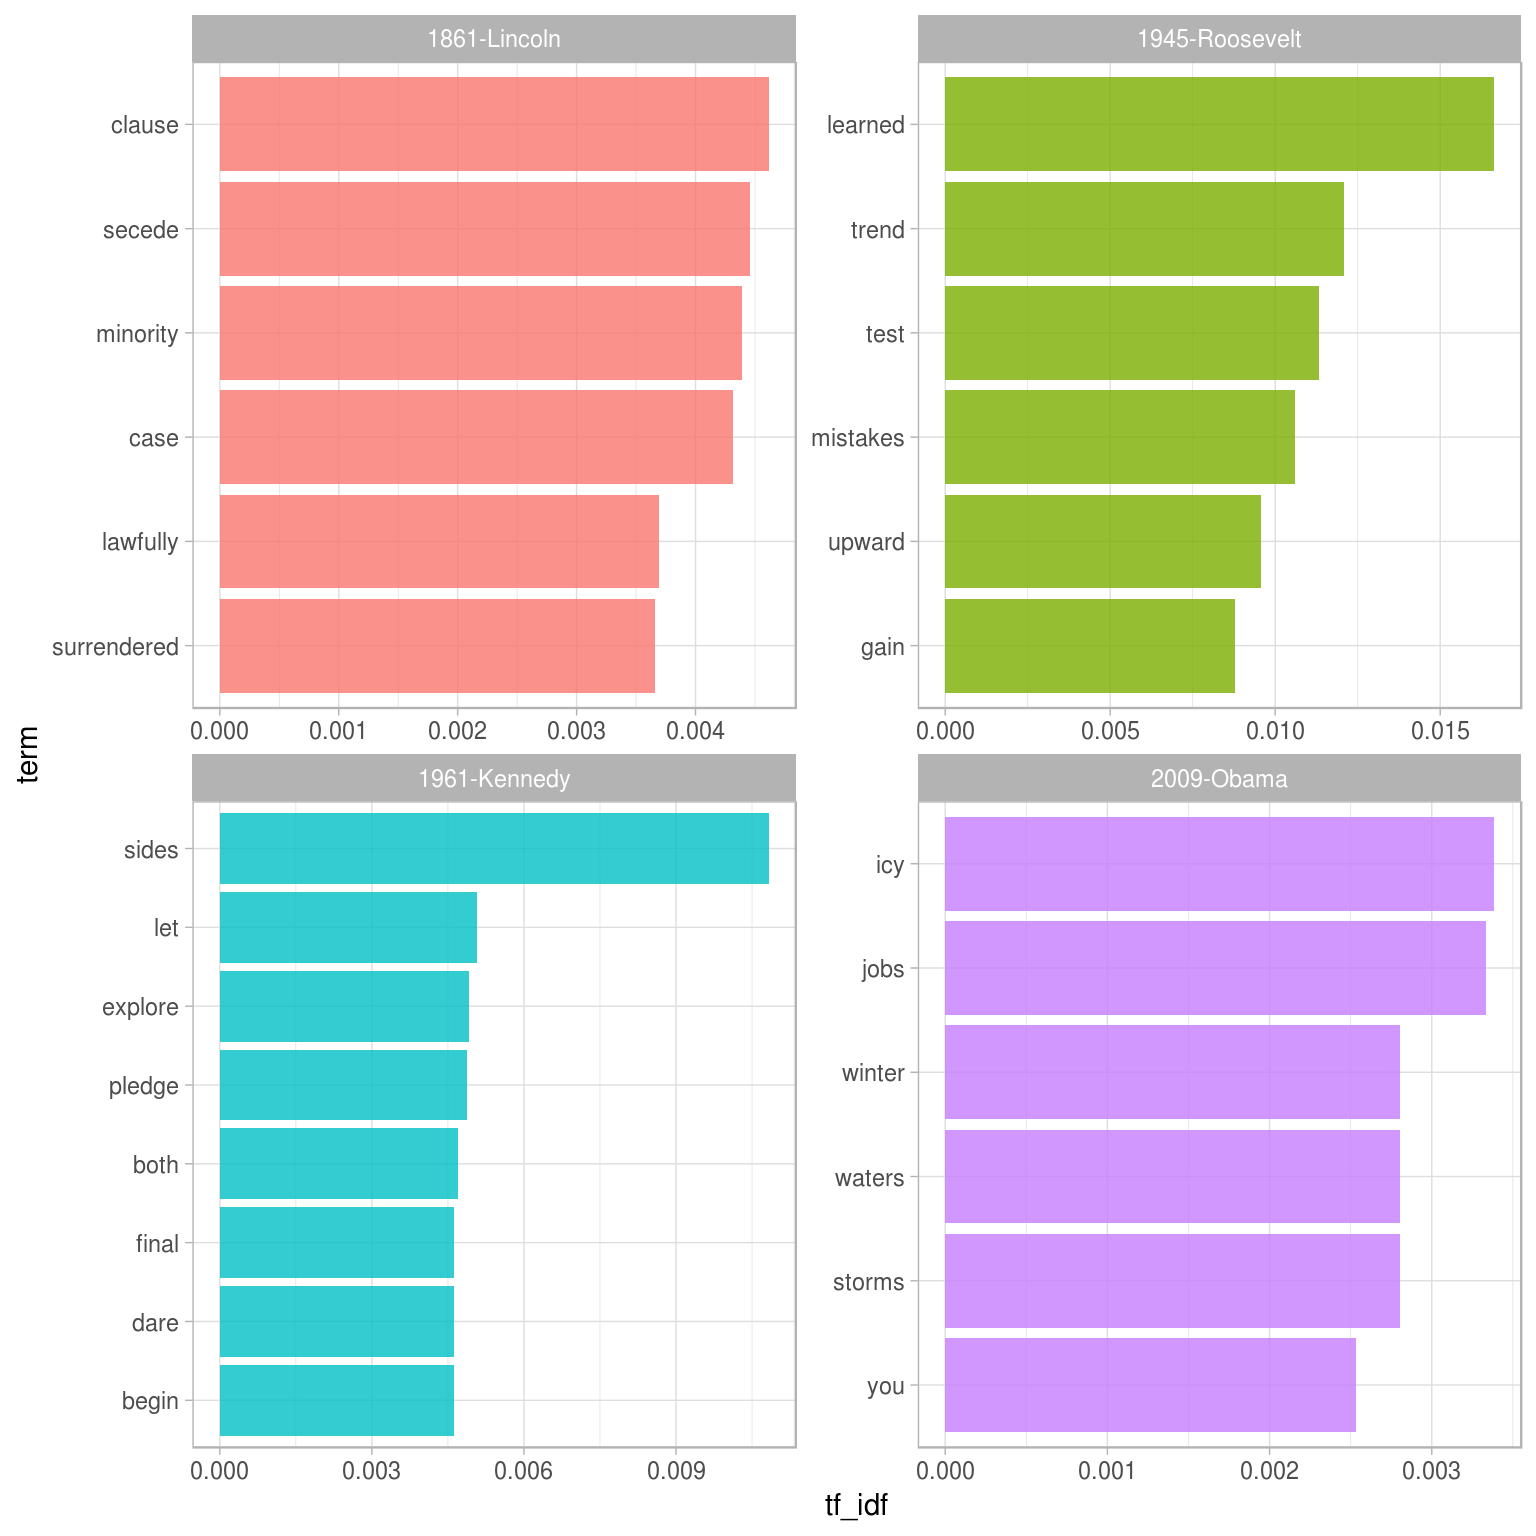
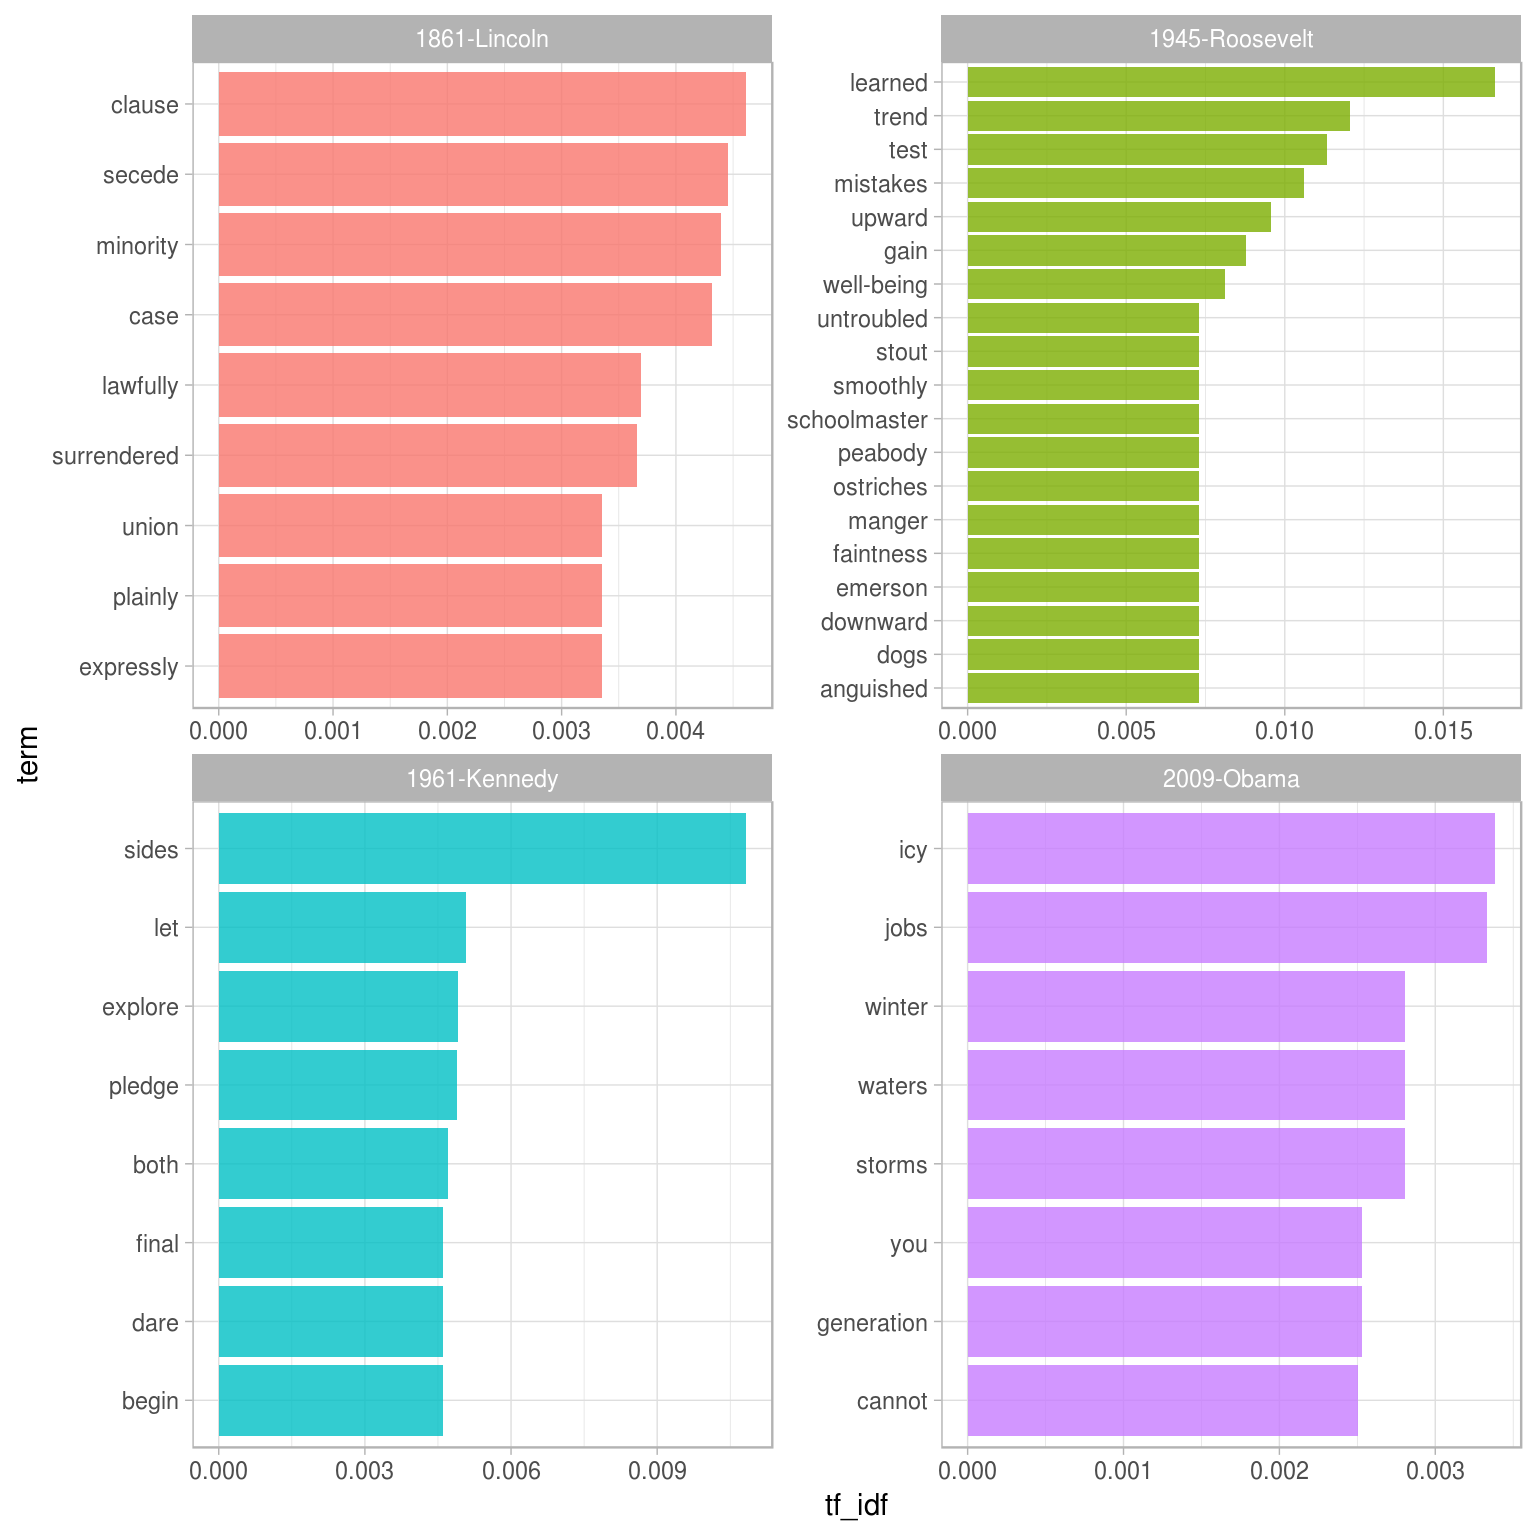
Updating book (105)

diff --git a/dtm.html b/dtm.html
@@ -204,22 +204,22 @@ code > span.in { color: #60a0b0; font-weight: bold; font-style: italic; } /* Inf
 <div id="dtm" class="section level1">
 <h1><span class="header-section-number">6</span> Tidying and casting document-term matrices</h1>
 <p>So far, we’ve been analyzing data in a tidy text structure: a data frame with one-token-per-document-per-row. This lets us use the popular suite of tidy tools such as dplyr, tidyr, and ggplot2. We’ve demonstrated that many text analyses can be performed using these principles.</p>
-<p>But many of the existing tools for natural language processing don’t work with this kind of structure. The <a href="https://cran.r-project.org/web/views/NaturalLanguageProcessing.html">CRAN Task View for Natural Language Processing</a> lists a large selection of packages that take other inputs. One of the most common is the <a href="https://en.wikipedia.org/wiki/Document-term_matrix">document-term matrix</a>, a sparse matrix of counts with one row for each document and one column for each term. MORE HERE</p>
+<p>But many of the existing tools for natural language processing don’t work with this kind of structure. The <a href="https://cran.r-project.org/web/views/NaturalLanguageProcessing.html">CRAN Task View for Natural Language Processing</a> lists a large selection of packages that take other inputs. One of the most common is the <a href="https://en.wikipedia.org/wiki/Document-term_matrix">document-term matrix</a>, a sparse matrix with one row for each document in a collection and one column for each term or word. The value that goes into the matrix is usually a word count or sometimes tf-idf. These matrices are sparse (they consist mostly of zeroes), so special algorithms and data structures can be used to deal with them that are efficient and fast.</p>
 <p>The tidytext package can integrate these packages into an analysis while still relying on our tidy tools. The two key verbs are:</p>
 <ul>
-<li><code>tidy()</code>:</li>
-<li><code>cast_</code>: Turn a tidy one-term-per-row data frame into a document-term matrix. This includes <code>cast_sparse()</code> (sparse Matrix), <code>cast_dtm()</code> (<code>DocumentTermMatrix</code> objects from tm), and <code>cast_dfm()</code> (<code>dfm</code> objects from quanteda).</li>
+<li><code>tidy()</code>: Constructs a data frame that summarizes a model’s statistical findings.</li>
+<li><code>cast_</code>: Turns a tidy one-term-per-row data frame into a document-term matrix. This includes <code>cast_sparse()</code> (sparse Matrix), <code>cast_dtm()</code> (<code>DocumentTermMatrix</code> objects from tm), and <code>cast_dfm()</code> (<code>dfm</code> objects from quanteda).</li>
 </ul>
 <div id="tidying-a-document-term-matrix" class="section level2">
 <h2><span class="header-section-number">6.1</span> Tidying a document-term matrix</h2>
-<p>Many existing text mining datasets expect and provide a <strong>document-term matrix</strong>, or DTM. A DTM is a matrix where:</p>
+<p>As we have discussed, many existing text mining datasets expect and provide a <strong>document-term matrix</strong>, or DTM. A DTM is a matrix where</p>
 <ul>
-<li>Each row represents one document</li>
-<li>Each column represents one term</li>
-<li>Each value contains the number of appearances of that term in that document</li>
+<li>each row represents one document,</li>
+<li>each column represents one term, and</li>
+<li>each value typically contains the number of appearances of that term in that document.</li>
 </ul>
 <p>DTMs are usually implemented as sparse matrices, meaning the vast majority of values are 0. These objects can be interacted with as though they were matrices, but are stored in a more efficient format.</p>
-<p>One commonly used implementation of DTMs in R is the <code>DocumentTermMatrix</code> class in the tm package. For example, consider the corpus of 2246 Associated Press articles from the topicmodels package:</p>
+<p>One commonly used implementation of DTMs in R is the <code>DocumentTermMatrix</code> class in the tm package. For example, consider the corpus of 2246 Associated Press articles from the topicmodels package.</p>
 <div class="sourceCode"><pre class="sourceCode r"><code class="sourceCode r"><span class="kw">library</span>(tm)
 
 <span class="kw">data</span>(<span class="st">&quot;AssociatedPress&quot;</span>, <span class="dt">package =</span> <span class="st">&quot;topicmodels&quot;</span>)
@@ -231,7 +231,7 @@ code > span.in { color: #60a0b0; font-weight: bold; font-style: italic; } /* Inf
 ## Sparsity           : 99%
 ## Maximal term length: 18
 ## Weighting          : term frequency (tf)</code></pre>
-<p>We see that this dataset contains documents (each of them an AP article) and terms (words).</p>
+<p>We see that this dataset contains documents (each of them an AP article) and terms (words). Notice that this example DTM is 99% sparse.</p>
 <p>If we want to analyze this with tidy tools, we need to turn it into a one-token-per-document-per-row data frame first. The broom package <span class="citation">(Robinson et al. <a href="#ref-R-broom">2015</a>)</span> introduced the <code>tidy</code> verb, which takes a non-tidy object and turns it into a data frame. The tidytext package implements that method for <code>DocumentTermClass</code> objects:</p>
 <div class="sourceCode"><pre class="sourceCode r"><code class="sourceCode r"><span class="kw">library</span>(dplyr)
 <span class="kw">library</span>(tidytext)
@@ -286,7 +286,7 @@ ap_sentiments %&gt;%
 <span class="st">  </span><span class="kw">mutate</span>(<span class="dt">n =</span> <span class="kw">ifelse</span>(sentiment ==<span class="st"> &quot;negative&quot;</span>, -n, n)) %&gt;%
 <span class="st">  </span><span class="kw">mutate</span>(<span class="dt">term =</span> <span class="kw">reorder</span>(term, n)) %&gt;%
 <span class="st">  </span><span class="kw">ggplot</span>(<span class="kw">aes</span>(term, n, <span class="dt">fill =</span> sentiment)) +
-<span class="st">  </span><span class="kw">geom_bar</span>(<span class="dt">stat =</span> <span class="st">&quot;identity&quot;</span>) +
+<span class="st">  </span><span class="kw">geom_bar</span>(<span class="dt">alpha =</span> <span class="fl">0.8</span>, <span class="dt">stat =</span> <span class="st">&quot;identity&quot;</span>) +
 <span class="st">  </span><span class="kw">ylab</span>(<span class="st">&quot;Contribution to sentiment&quot;</span>) +
 <span class="st">  </span><span class="kw">coord_flip</span>()</code></pre></div>
 <p><img src="06-document-term-matrices_files/figure-html/unnamed-chunk-2-1.png" width="672" /></p>
@@ -339,7 +339,7 @@ inaug_tf_idf</code></pre></div>
 ## # ... with 2,680 more rows</code></pre>
 <div class="sourceCode"><pre class="sourceCode r"><code class="sourceCode r">inaug_tf_idf %&gt;%
 <span class="st">  </span><span class="kw">group_by</span>(document) %&gt;%
-<span class="st">  </span><span class="kw">top_n</span>(<span class="dv">6</span>, tf_idf) %&gt;%
+<span class="st">  </span><span class="kw">top_n</span>(<span class="dv">8</span>, tf_idf) %&gt;%
 <span class="st">  </span><span class="kw">ungroup</span>() %&gt;%
 <span class="st">  </span><span class="kw">mutate</span>(<span class="dt">term =</span> <span class="kw">reorder</span>(term, tf_idf)) %&gt;%
 <span class="st">  </span><span class="kw">ggplot</span>(<span class="kw">aes</span>(term, tf_idf, <span class="dt">fill =</span> document)) +

diff --git a/06-document-term-matrices.md b/06-document-term-matrices.md
@@ -4,24 +4,24 @@
 
 So far, we've been analyzing data in a tidy text structure: a data frame with one-token-per-document-per-row. This lets us use the popular suite of tidy tools such as dplyr, tidyr, and ggplot2. We've demonstrated that many text analyses can be performed using these principles.
 
-But many of the existing tools for natural language processing don't work with this kind of structure. The [CRAN Task View for Natural Language Processing](https://cran.r-project.org/web/views/NaturalLanguageProcessing.html) lists a large selection of packages that take other inputs. One of the most common is the [document-term matrix](https://en.wikipedia.org/wiki/Document-term_matrix), a sparse matrix of counts with one row for each document and one column for each term. MORE HERE
+But many of the existing tools for natural language processing don't work with this kind of structure. The [CRAN Task View for Natural Language Processing](https://cran.r-project.org/web/views/NaturalLanguageProcessing.html) lists a large selection of packages that take other inputs. One of the most common is the [document-term matrix](https://en.wikipedia.org/wiki/Document-term_matrix), a sparse matrix with one row for each document in a collection and one column for each term or word. The value that goes into the matrix is usually a word count or sometimes tf-idf. These matrices are sparse (they consist mostly of zeroes), so special algorithms and data structures can be used to deal with them that are efficient and fast.
 
 The tidytext package can integrate these packages into an analysis while still relying on our tidy tools. The two key verbs are:
 
-* `tidy()`: 
-* `cast_`: Turn a tidy one-term-per-row data frame into a document-term matrix. This includes `cast_sparse()` (sparse Matrix), `cast_dtm()` (`DocumentTermMatrix` objects from tm), and `cast_dfm()` (`dfm` objects from quanteda).
+* `tidy()`: Constructs a data frame that summarizes a model's statistical findings.
+* `cast_`: Turns a tidy one-term-per-row data frame into a document-term matrix. This includes `cast_sparse()` (sparse Matrix), `cast_dtm()` (`DocumentTermMatrix` objects from tm), and `cast_dfm()` (`dfm` objects from quanteda).
 
 ## Tidying a document-term matrix
 
-Many existing text mining datasets expect and provide a **document-term matrix**, or DTM. A DTM is a matrix where:
+As we have discussed, many existing text mining datasets expect and provide a **document-term matrix**, or DTM. A DTM is a matrix where
 
-* Each row represents one document
-* Each column represents one term
-* Each value contains the number of appearances of that term in that document
+* each row represents one document,
+* each column represents one term, and
+* each value typically contains the number of appearances of that term in that document.
 
 DTMs are usually implemented as sparse matrices, meaning the vast majority of values are 0. These objects can be interacted with as though they were matrices, but are stored in a more efficient format.
 
-One commonly used implementation of DTMs in R is the `DocumentTermMatrix` class in the tm package. For example, consider the corpus of 2246 Associated Press articles from the topicmodels package:
+One commonly used implementation of DTMs in R is the `DocumentTermMatrix` class in the tm package. For example, consider the corpus of 2246 Associated Press articles from the topicmodels package.
 
 
 ```r
@@ -47,7 +47,7 @@ AssociatedPress
 ## Weighting          : term frequency (tf)
 ```
 
-We see that this dataset contains  documents (each of them an AP article) and  terms (words).
+We see that this dataset contains  documents (each of them an AP article) and  terms (words). Notice that this example DTM is 99% sparse.
 
 If we want to analyze this with tidy tools, we need to turn it into a one-token-per-document-per-row data frame first. The broom package [@R-broom] introduced the `tidy` verb, which takes a non-tidy object and turns it into a data frame. The tidytext package implements that method for `DocumentTermClass` objects:
 
@@ -123,7 +123,7 @@ ap_sentiments %>%
   mutate(n = ifelse(sentiment == "negative", -n, n)) %>%
   mutate(term = reorder(term, n)) %>%
   ggplot(aes(term, n, fill = sentiment)) +
-  geom_bar(stat = "identity") +
+  geom_bar(alpha = 0.8, stat = "identity") +
   ylab("Contribution to sentiment") +
   coord_flip()
 ```
@@ -202,7 +202,7 @@ inaug_tf_idf
 ```r
 inaug_tf_idf %>%
   group_by(document) %>%
-  top_n(6, tf_idf) %>%
+  top_n(8, tf_idf) %>%
   ungroup() %>%
   mutate(term = reorder(term, tf_idf)) %>%
   ggplot(aes(term, tf_idf, fill = document)) +
